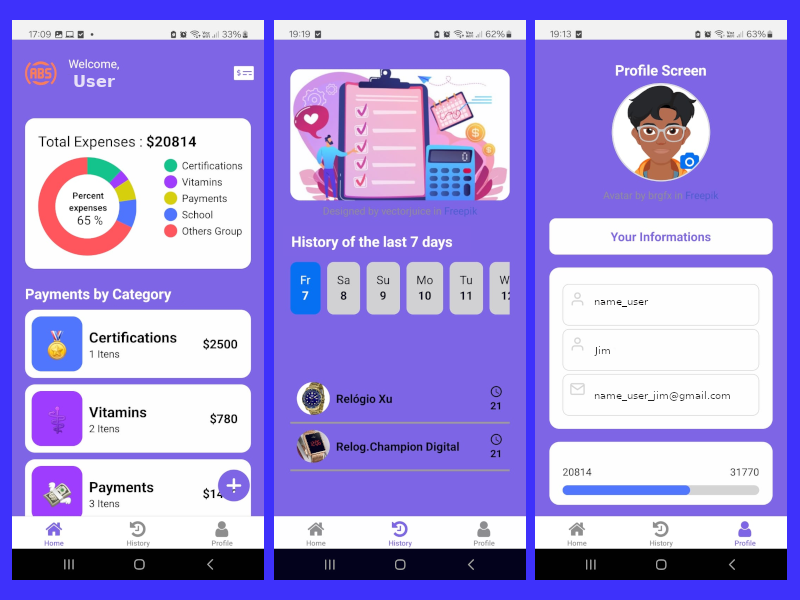
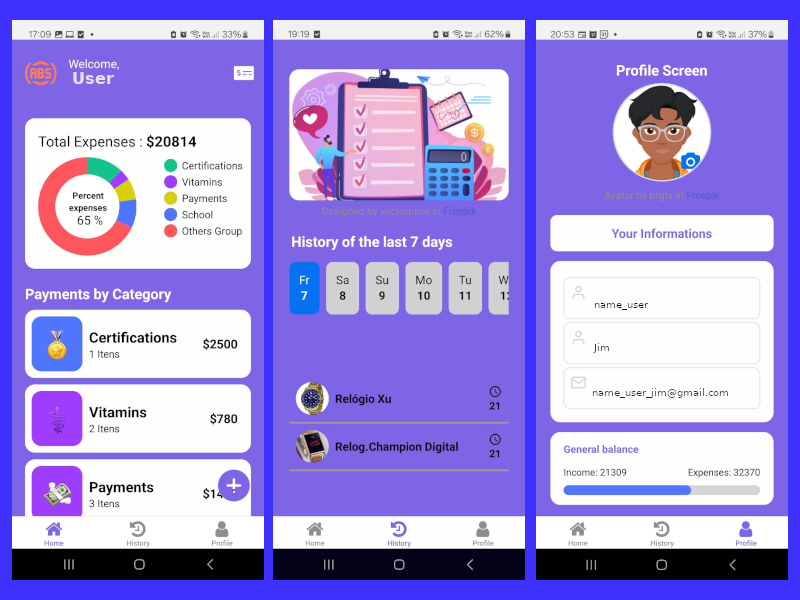
feat(react-native): v00.32.000 - update README.md

diff --git a/app/(tabs)/profile.jsx b/app/(tabs)/profile.jsx
@@ -161,9 +161,10 @@ export default function Profile() {
 
           </View>
           <View style={styles.profilSummary}>
+            <Text style={styles.txttitlebalance}>General balance</Text>
             <View style={styles.txttotal}>
-              <Text style={styles.txtfontvalues}>{totalGastExpectedContext}</Text>
-              <Text style={styles.txtfontvalues}>{totalGastReservedContext}</Text>
+              <Text style={styles.txtfontvalues}>Income: {totalGastExpectedContext}</Text>
+              <Text style={styles.txtfontvalues}>Expenses: {totalGastReservedContext}</Text>
             </View>
             <View style={styles.progressbarmaincontainer}>
               <View style={[ styles.progressbainnercontainer, { 
@@ -326,7 +327,7 @@ const styles = StyleSheet.create({
     position: 'relative',
     justifyContent: 'center',
     padding: 20,
-    marginTop: 20,
+    marginTop: 15,
     borderRadius: 15,
     marginBottom: 10,
   },
@@ -339,15 +340,27 @@ const styles = StyleSheet.create({
     paddingRight:20,
     paddingTop:5,
     paddingBottom: 15,
+    marginTop: 5,
+    marginBottom: 10,
     borderRadius: 15,
-    marginTop: 10,
+  },
+  txtfontvalues:{
+    fontSize: 13,
+    //color: Colors.WHITE,
+    // fontWeight: 'bold',
+  },
+  txttitlebalance:{
+    fontSize: 14,
+    color: Colors.PRIMARY,
+    fontWeight: 'bold',
+    paddingTop: 10,
   },
   buttonfooter: {
     display: 'flex',
     height: 55,
     borderRadius: 10,
     backgroundColor: Colors.WHITE,
-    marginTop: 25,
+    marginTop: 20,
   },
   buttonText: {
     alignSelf: 'center',
@@ -389,6 +402,6 @@ const styles = StyleSheet.create({
       display: 'flex', 
       flexDirection: 'row', 
       justifyContent: 'space-between',
-      marginTop: 30,
+      marginTop: 15,
     },
 });

diff --git a/app/login/index.jsx b/app/login/index.jsx
@@ -32,7 +32,7 @@ export default function LoginScreen() {
 
   return (
     <View style={{ display: 'flex', alignItems: 'center' }}>
-      <Text style={styles.loginScreen}>Tela de Login</Text>
+      <Text style={styles.loginScreen}>Login Screen</Text>
       <Image source={require('../../assets/images/loginbg.png')} style={styles.loginBg} />
       <View style={styles.viewIntern}>
         <Text style={styles.txtPersPlan}>Personal Budger Planner</Text>

diff --git a/README.md b/README.md
@@ -1,18 +1,7 @@
-- Verificar tecnologias
-
-- Fazer resumo geral: App que serve para: Controle suas contas
-
-- Fazer backups
-
-- Remover anotações
-
-- Enviar para o GitHub
+<h1>Budget-planner-tracker-app</h1>
 
 
-<h1>Titulo Provisório: Input field: Budge </h1>
-
-
-Description: An Account Control Android app, Full Stack using React Native, JS, Auth Kinde and external Supabase
+Description: App written in React Native to control expenses
 
 ---------------------------------------------------------------------------------------------------------
 
@@ -45,38 +34,43 @@ Description: An Account Control Android app, Full Stack using React Native, JS, 
 # Intro <a name = "Intro"></a>
 
 This project was developed:
-- used Node & Express
-- implemented tests in Thunder Cli.
+- implemented History Page com dados da semana em flatlist
+- Implemented the Profile Page with expense summary; user's social login data; and an image or photograph.
+- use image from freepik
 
-This project was previously developed by 'TubeGuruji', found on youtube with the title """React Native Full Stack App | React Native Budget Planner App | | Expo, Supabase, Kinde"""
+These were the differences, in relation to the original project found on Youtube with the title """React Native Full Stack App | React Native Budget Planner App | | Expo, Supabase, Kinde"""
 
 
 &nbsp;
 # Feature <a name = "Feature"></a>
-- POST GET PUT & DELETE
-- The data is storaged in SQlite local Database
+- POST GET PUT & DELETE in PostgreeSQl using Supabase
+- The data is storaged in DaaS (DataBase as a Service)
 
 
 
 &nbsp;
 # Technologies <a name = "Technologies"></a>
-- Used React Native & JavaScript
-- Supabase DB
-- Social Authentication with Kinde (mail or gmail)
+- JavaScript Full Stack
+- React Native
+- Supabase, Backend-as-a-Service (BaaS) that hosts PostgreSQL database
+- Social Authentication using Kinde (robust and scalable authentication)
+- Expo 52, framework to development mobile cross-platform.
+- ImagePicker lib
+- Context API, manages the global state of the app, passing data directly to the target component.
+
 
 
 ## Built With 
-![React](https://img.shields.io/badge/react-%2320232a.svg?style=for-the-badge&logo=react&logoColor=%2361DAFB)
-![react-hook](https://img.shields.io/badge/hooks-%2320232a.svg?style=for-the-badge&logo=react&logoColor=%2361DAFB)
-![Node.js](https://img.shields.io/badge/Node.js-43853D?style=for-the-badge&logo=node.js&logoColor=white)
-![HTML5](https://img.shields.io/badge/html5-%23E34F26.svg?style=for-the-badge&logo=html5&logoColor=white)
+![ReactNative](https://img.shields.io/badge/ReactNative-222222?style=for-the-badge&logo=React&logoColor=%2361DAFB)
 ![JavaScript](https://img.shields.io/badge/javascript-%23323330.svg?style=for-the-badge&logo=javascript&logoColor=%23F7DF1E)
-![CSS3](https://img.shields.io/badge/css3-%231572B6.svg?style=for-the-badge&logo=css3&logoColor=white)
+![Node.js](https://img.shields.io/badge/Node.js-43853D?style=for-the-badge&logo=node.js&logoColor=white)
 ![Supabase](https://shields.io/badge/supabase-black?logo=supabase&style=for-the-badge)
+![HTML5](https://img.shields.io/badge/html5-%23E34F26.svg?style=for-the-badge&logo=html5&logoColor=white)
+![CSS3](https://img.shields.io/badge/css3-%231572B6.svg?style=for-the-badge&logo=css3&logoColor=white)
 
 
-<!-- Consult technologies using the https://blog.escolaninjawp.com.br/qual-tecnologia-um-site-foi-feito/ website -->
 
+<!-- Consult technologies using the https://blog.escolaninjawp.com.br/qual-tecnologia-um-site-foi-feito/ website
 
 <!-- Look for Badges shields in 
        https://dev.to/envoy_/150-badges-for-github-pnk
@@ -85,7 +79,6 @@ This project was previously developed by 'TubeGuruji', found on youtube with the
 -->
 
  
-
 &nbsp;
 # How-To-Use <a name = "How-To-Use"></a>
 
@@ -143,45 +136,3 @@ To clone and run this application, you'll need Git, Node.js v20.03 or higher + n
 
 - Github: [@Almir-git-hub](https://github.com/Almir-git-unifc)
 
-
-
-
-
---------------------------------------------------------------------------------------
-
-About
-App budge control using react, expo-router and Supabase
-
-
-used
-- exporouter    used to navigation
-- data in Context (createContext, useContext)
-
-
-Installed 
-- npm install --global expo-cli  ou  npm install @expo/cli@latest
-- npm i @kinde-oss/react-native-sdk-0-7x - -save
-- npm install expo-crypto
-- npm install expo-auth-session
-- npm install @supabase/supabase-js
-- npm install react-native-svg  (for graphic pie)
-- npm install react-native-pie-chart (for graphic pie)
-- npx expo install expo-font (for install fonts)
-- npx expo isntall expo-image-picker (for manipulate camera and gallery)
-
-
-
-- npx expo install @react-native-async-storage/async-storage   
- (ainda não sabemos se será usado - we will study whether it will be used)
-
-
-development tools:
-- ES7 + React
-
-
-Error
-Erro (0 , _expoModulesCore.uuidv4) instale -core@next ou install --fix
-npm i expo-modules-core@next   ou   npx expo install --fix
-
-
-Icons: FontAwesome, MaterialCommunityIcons, Feather de  expo/vector-icons/FontAwesome (consult icons.expo.fyi/index)

diff --git a/version.md b/version.md
@@ -27,6 +27,9 @@ v00.25.000 - created a group of categories above 4 in Donutchart
 v00.26.000 - implemented delete item button and open url
 v00.27.000 - implemented History Page with parts 1 and 2
 v00.28.000 - implemented History Screen
+v00.29.000 - implemented BackHandler button
+v00.30.000 - fix BackHandler button code
+v00.31.000 - update Profile Screen
 
 
 
